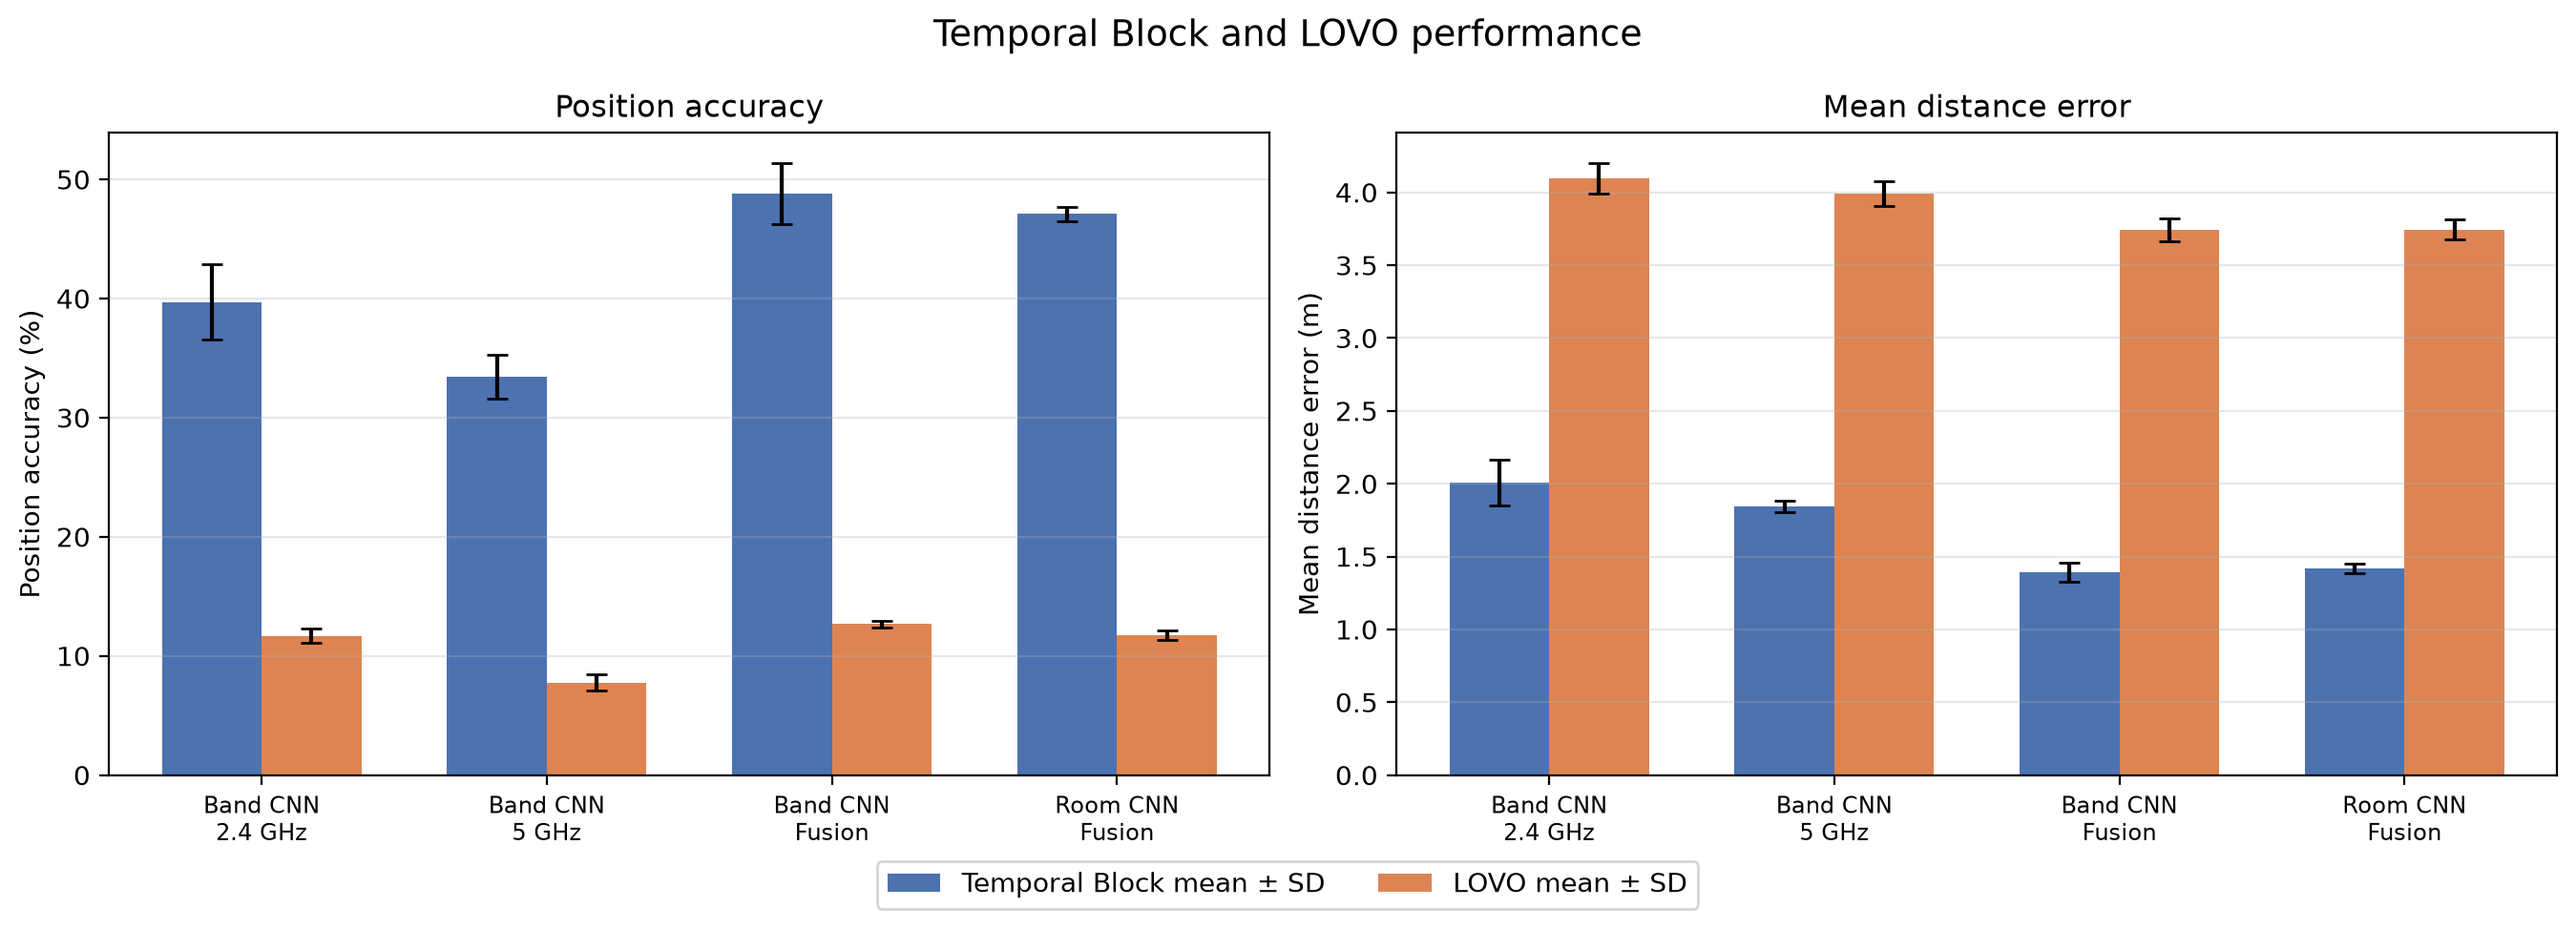
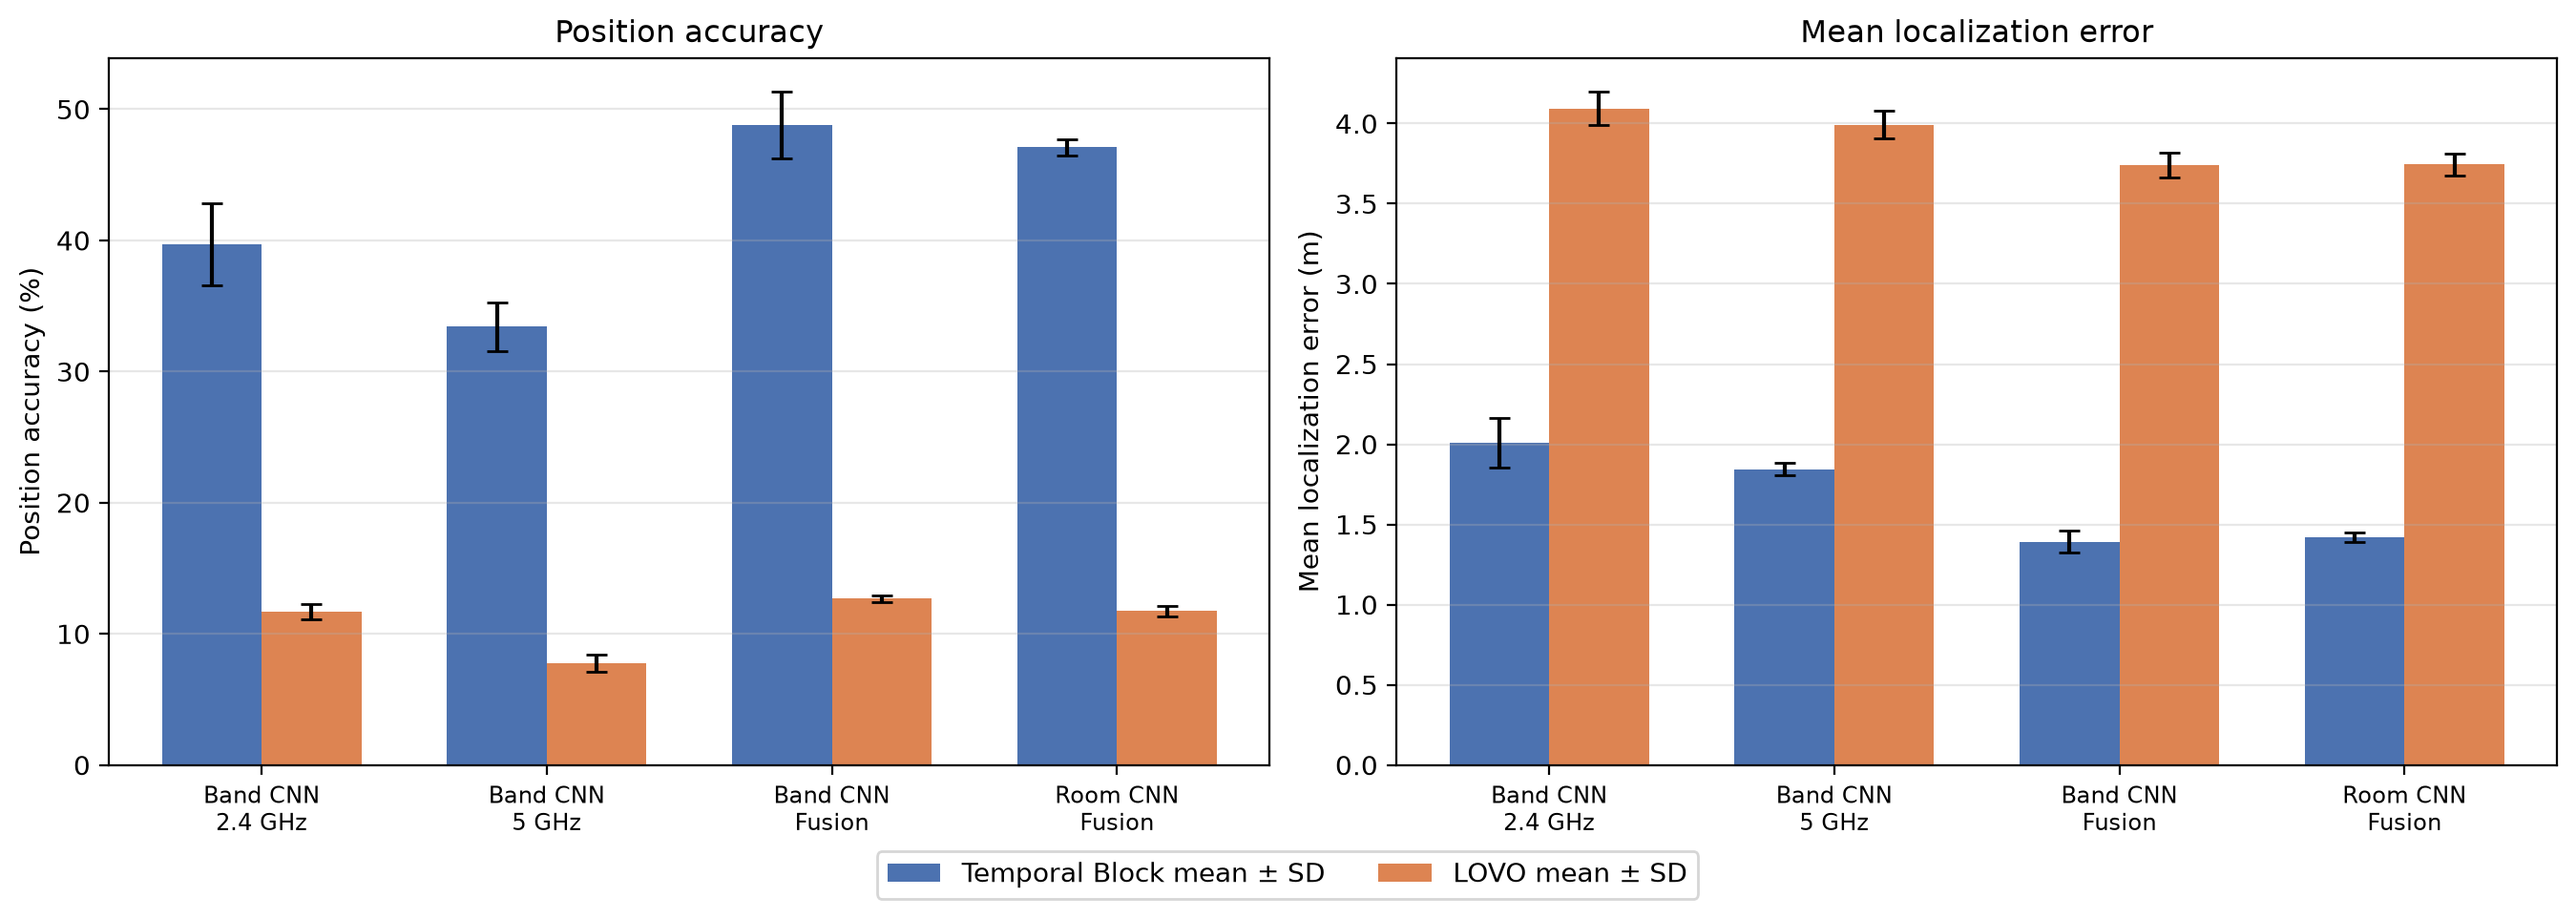
corrected DL plots

diff --git a/utils/plots.py b/utils/plots.py
@@ -36,6 +36,10 @@ FLOOR_PLAN_ERROR_CMAP = "viridis_r"
 # positive value (severe LOVO degradation relative to Block) reads as red, zero as
 # white, and LOVO outperforming Block as blue.
 FLOOR_PLAN_DIFF_CMAP = "RdBu_r"
+# Sequential map for the Block-vs-LOVO accuracy *decrease*, used where every value
+# is one-signed (Block never worse than LOVO) so a diverging scale would waste half
+# its range on unused negative values.
+FLOOR_PLAN_DECREASE_CMAP = "Reds"
 # Okabe-Ito colour-blind-safe qualitative palette (orange, sky blue, bluish green,
 # vermillion, blue, reddish purple) paired with distinct marker shapes so series
 # stay distinguishable without relying on colour alone.
@@ -1386,6 +1390,8 @@ def _draw_dl_volunteer_panel(
     x_labels: Sequence[str],
     data: dict[str, dict[str, float]],
     title: str,
+    *,
+    show_legend: bool = True,
 ) -> bool:
     """Draw one held-out-volunteer slope panel; return whether anything was plotted."""
     volunteers = sorted(
@@ -1442,7 +1448,8 @@ def _draw_dl_volunteer_panel(
     ax.set_xlim(-0.4, len(x_labels) - 0.6)
     ax.set_title(title, fontsize=11)
     ax.grid(axis="y", alpha=0.3)
-    ax.legend(fontsize=7.5, ncol=2, loc="upper right")
+    if show_legend:
+        ax.legend(fontsize=7.5, ncol=2, loc="upper right")
     return True
 
 
@@ -1461,7 +1468,9 @@ def plot_dl_volunteer_variability(
 
     Panel (a) compares bands for the Band CNN; panel (b) compares Band CNN and
     Room CNN at Fusion. Each point is one volunteer's position accuracy
-    averaged across the three seeds, connected across x-categories.
+    averaged across the three seeds, connected across x-categories. Both
+    panels share the same volunteers, so a single legend below the figure
+    stands in for the two identical per-panel legends.
     """
     _validate_columns(
         predictions,
@@ -1500,10 +1509,18 @@ def plot_dl_volunteer_variability(
 
     fig, axes = plt.subplots(1, 2, figsize=(11.6, 4.8))
     plotted_a = _draw_dl_volunteer_panel(
-        axes[0], list(band_order), panel_a_data, "(a) Band CNN by frequency band"
+        axes[0],
+        list(band_order),
+        panel_a_data,
+        "(a) Band CNN by frequency band",
+        show_legend=False,
     )
     plotted_b = _draw_dl_volunteer_panel(
-        axes[1], ["Band CNN", "Room CNN"], panel_b_data, "(b) Band CNN vs Room CNN (Fusion)"
+        axes[1],
+        ["Band CNN", "Room CNN"],
+        panel_b_data,
+        "(b) Band CNN vs Room CNN (Fusion)",
+        show_legend=False,
     )
     if not (plotted_a or plotted_b):
         plt.close(fig)
@@ -1511,7 +1528,10 @@ def plot_dl_volunteer_variability(
         return
 
     axes[0].set_ylabel("Position accuracy (%)")
-    fig.tight_layout()
+    legend_ax = axes[0] if plotted_a else axes[1]
+    handles, labels_ = legend_ax.get_legend_handles_labels()
+    fig.legend(handles, labels_, fontsize=8.5, ncol=4, loc="lower center", bbox_to_anchor=(0.5, -0.14))
+    fig.tight_layout(rect=(0, 0.12, 1, 1))
     _save_and_show(fig, save_path, show=show)
 
 
@@ -1525,17 +1545,18 @@ def plot_dl_block_vs_lovo_metrics(
     save_path: str | Path | None = None,
     show: bool = True,
 ) -> None:
-    """Plot Block vs LOVO position accuracy and mean distance error for four DL configs.
+    """Plot Block vs LOVO position accuracy and mean localization error for four DL configs.
 
     Configs are the Band CNN at each band plus the Room CNN at Fusion. Bars use
     the seed means from :func:`~utils.DL.dl_pipeline.dl_seed_summary_table`,
-    with SD-across-seeds error bars on both splits.
+    with SD-across-seeds error bars on both splits. No in-figure title is
+    drawn; identify the figure in its caption instead.
     """
     configs = [(band_model, band, f"Band CNN\n{band}") for band in band_order]
     configs.append((room_model, room_band, f"Room CNN\n{room_band}"))
     metrics = (
         ("position_accuracy", "Position accuracy", "Position accuracy (%)", True),
-        ("mean_distance_error", "Mean distance error", "Mean distance error (m)", False),
+        ("mean_distance_error", "Mean localization error", "Mean localization error (m)", False),
     )
 
     fig, axes = plt.subplots(1, len(metrics), figsize=(6.8 * len(metrics), 4.6))
@@ -1625,8 +1646,7 @@ def plot_dl_block_vs_lovo_metrics(
 
     handles, labels_ = axes[0].get_legend_handles_labels()
     fig.legend(handles, labels_, loc="lower center", ncol=2, bbox_to_anchor=(0.5, -0.05))
-    fig.suptitle("Temporal Block and LOVO performance", fontsize=13.5)
-    fig.tight_layout(rect=(0, 0.08, 1, 0.93))
+    fig.tight_layout(rect=(0, 0.08, 1, 1))
     _save_and_show(fig, save_path, show=show)
 
 
@@ -1707,16 +1727,19 @@ def plot_dl_spatial_generalization(
     save_path: str | Path | None = None,
     show: bool = True,
 ) -> None:
-    r"""Save three floor-plan figures for the Band CNN (Fusion): Block accuracy,
-    LOVO accuracy, and their difference :math:`\Delta A`.
+    """Save three floor-plan figures for the Band CNN (Fusion): Block accuracy,
+    LOVO accuracy, and the accuracy decrease from Block to LOVO.
 
     Each is its own single-panel figure (rather than one wide three-panel
     figure) so cell values and axes stay legible at dissertation page width,
     matching :func:`plot_floor_plan_heatmap`. Block positions average accuracy
     across the three seeds; LOVO positions first average seeds within each
     held-out volunteer, then average volunteers with equal weight. The Block
-    and LOVO maps share identical 0-1 colour limits; the difference map uses a
-    diverging scale centred at zero, in percentage points.
+    and LOVO maps share identical 0-1 colour limits. The decrease map plots
+    Block-minus-LOVO accuracy, which is one-signed here (LOVO never
+    outperforms Block at any position), so it uses a sequential red scale
+    from 0 to the actual maximum decrease rather than a diverging scale that
+    would waste half its range on unused negative values.
     """
     _validate_columns(block_predictions, {"true_location", "pred_location", "seed"})
     _validate_columns(lovo_predictions, {"true_location", "pred_location", "seed", "held_out_user"})
@@ -1730,11 +1753,11 @@ def plot_dl_spatial_generalization(
 
     block_records = [block_by_key[key] for key in shared_keys]
     lovo_records = [lovo_by_key[key] for key in shared_keys]
-    diff_records = [
+    decrease_records = [
         {
             "row_idx": row_idx,
             "col_idx": col_idx,
-            "accuracy_diff_pp": (
+            "accuracy_decrease_pp": (
                 block_by_key[(row_idx, col_idx)]["accuracy"]
                 - lovo_by_key[(row_idx, col_idx)]["accuracy"]
             )
@@ -1744,23 +1767,27 @@ def plot_dl_spatial_generalization(
     ]
     n_rows = len(FLOOR_PLAN_ROWS)
     n_cols = max(col_idx for _, col_idx in shared_keys) + 1
-    max_abs_diff_pp = max((abs(record["accuracy_diff_pp"]) for record in diff_records), default=0.0)
-    diff_limit = max(max_abs_diff_pp, 1e-6)
+    # Use the true maximum so the colour bar always spans every plotted cell; a
+    # rounded/percentile cap would visually clip outlier positions off the top.
+    max_decrease_pp = max(
+        (record["accuracy_decrease_pp"] for record in decrease_records), default=0.0
+    )
+    decrease_vmax = max(max_decrease_pp, 1e-6)
 
     acc_norm = mcolors.Normalize(vmin=0.0, vmax=1.0)
-    diff_norm = mcolors.TwoSlopeNorm(vmin=-diff_limit, vcenter=0.0, vmax=diff_limit)
+    decrease_norm = mcolors.Normalize(vmin=0.0, vmax=decrease_vmax)
 
     panels = [
         (block_records, "accuracy", FLOOR_PLAN_ACCURACY_CMAP, acc_norm, "Position accuracy", lambda v: f"{v:.0%}", "block_accuracy"),
         (lovo_records, "accuracy", FLOOR_PLAN_ACCURACY_CMAP, acc_norm, "Position accuracy", lambda v: f"{v:.0%}", "lovo_accuracy"),
         (
-            diff_records,
-            "accuracy_diff_pp",
-            FLOOR_PLAN_DIFF_CMAP,
-            diff_norm,
-            "Accuracy difference (percentage points)",
-            lambda v: f"{v:+.0f} pp",
-            "accuracy_diff",
+            decrease_records,
+            "accuracy_decrease_pp",
+            FLOOR_PLAN_DECREASE_CMAP,
+            decrease_norm,
+            "Accuracy decrease (percentage points)",
+            lambda v: f"{v:.0f} pp",
+            "accuracy_decrease",
         ),
     ]
     for records, metric_key, cmap_name, norm, metric_label, fmt_fn, filename_suffix in panels:
